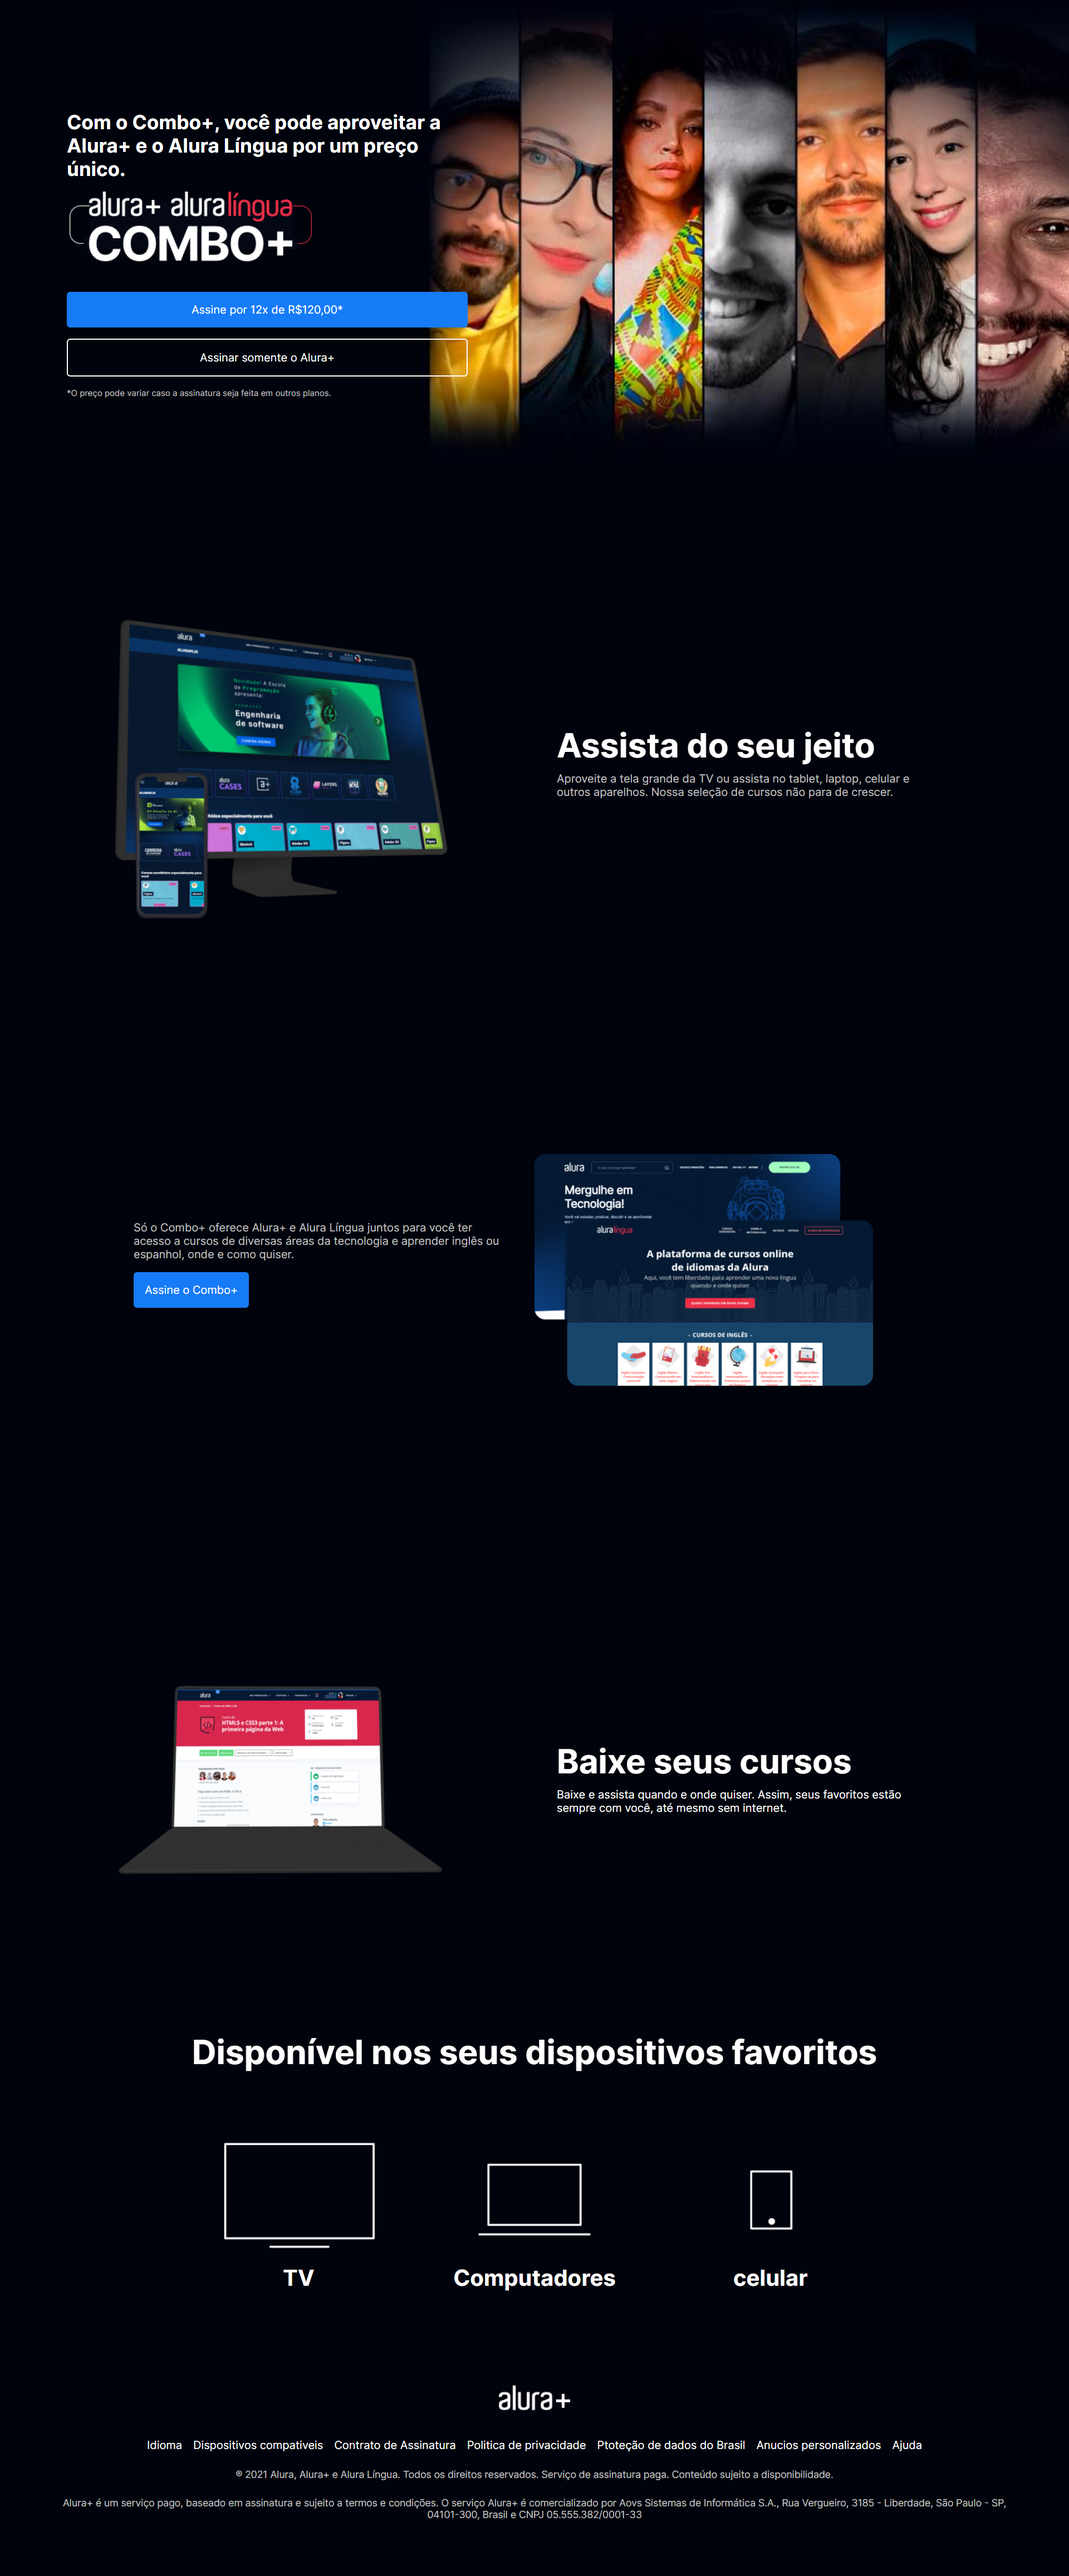
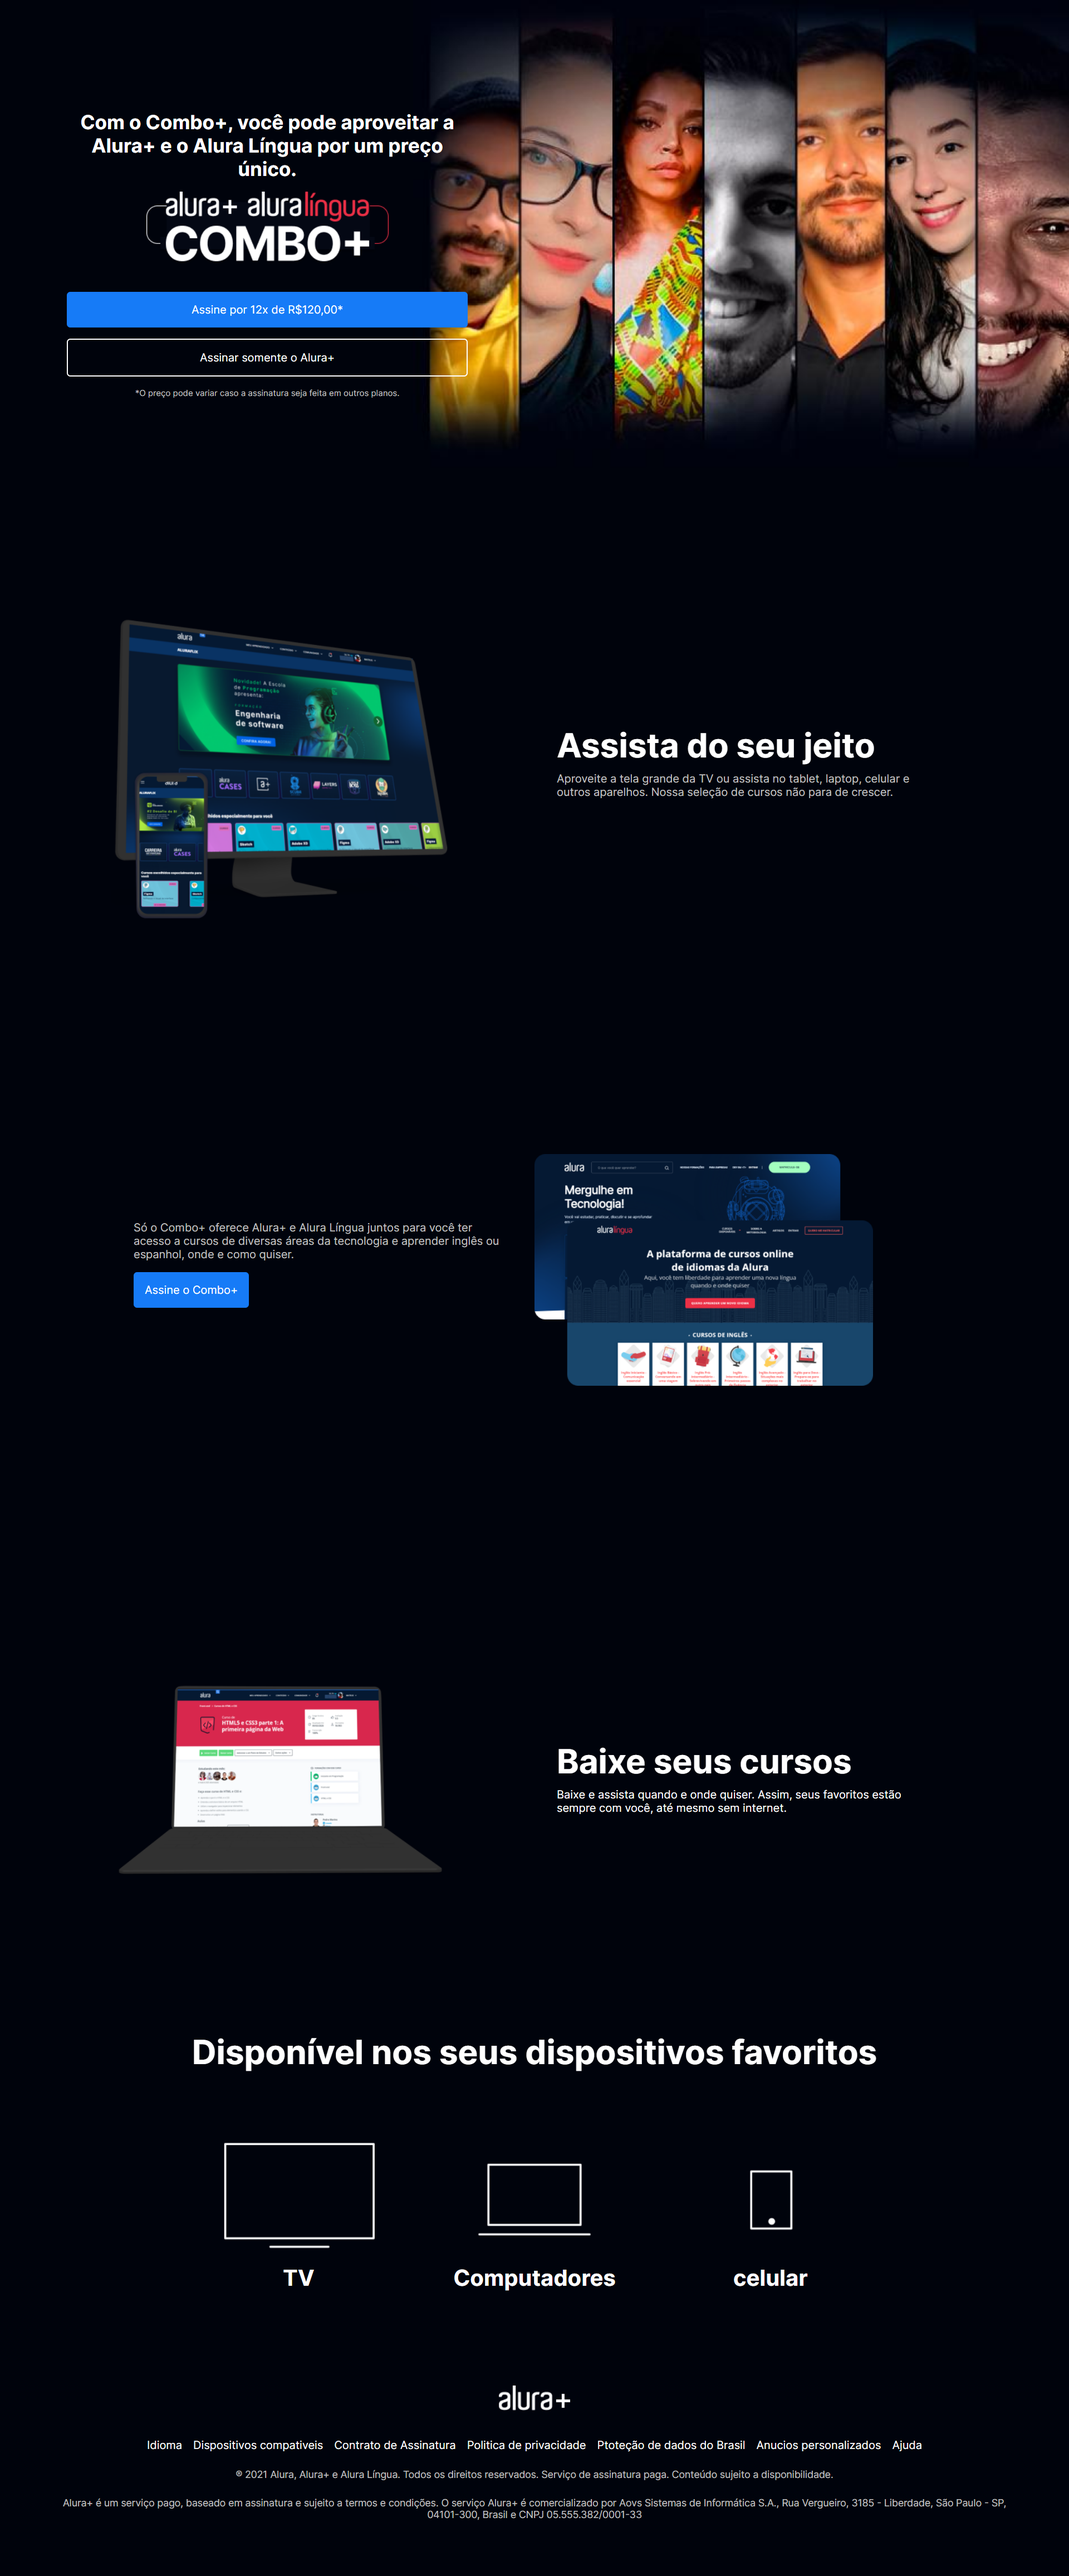
.

Changed region(s): [[0.0625, 0.0311, 0.4062, 0.1245]]

diff --git a/index.html b/index.html
@@ -4,6 +4,7 @@
 <head>
     <meta charset="UTF-8">
     <meta name="viewport" content="width=device-width, initial-scale=1.0">
+    <link rel="stylesheet" href="mobile.css">
     <link rel="stylesheet" href="style.css">
     <link rel="preconnect" href="https://fonts.googleapis.com">
     <link rel="preconnect" href="https://fonts.gstatic.com" crossorigin>

diff --git a/mobile.css b/mobile.css
@@ -1,0 +1,12 @@
+@media (max-width:480px) {
+    
+    * {
+        margin: 0px;
+        padding: 0px;
+        text-decoration: none;
+        list-style: none;
+        box-sizing: border-box;
+    }
+
+    
+}

diff --git a/style.css b/style.css
@@ -28,6 +28,7 @@ body {
 
     display: grid;
     grid-template-columns: 50% 50%;
+    
 }
 
 .principal {
@@ -38,6 +39,7 @@ body {
 }
 
 .container__caixa {
+    text-align: center;
     margin: 0 6em;
 }
 
